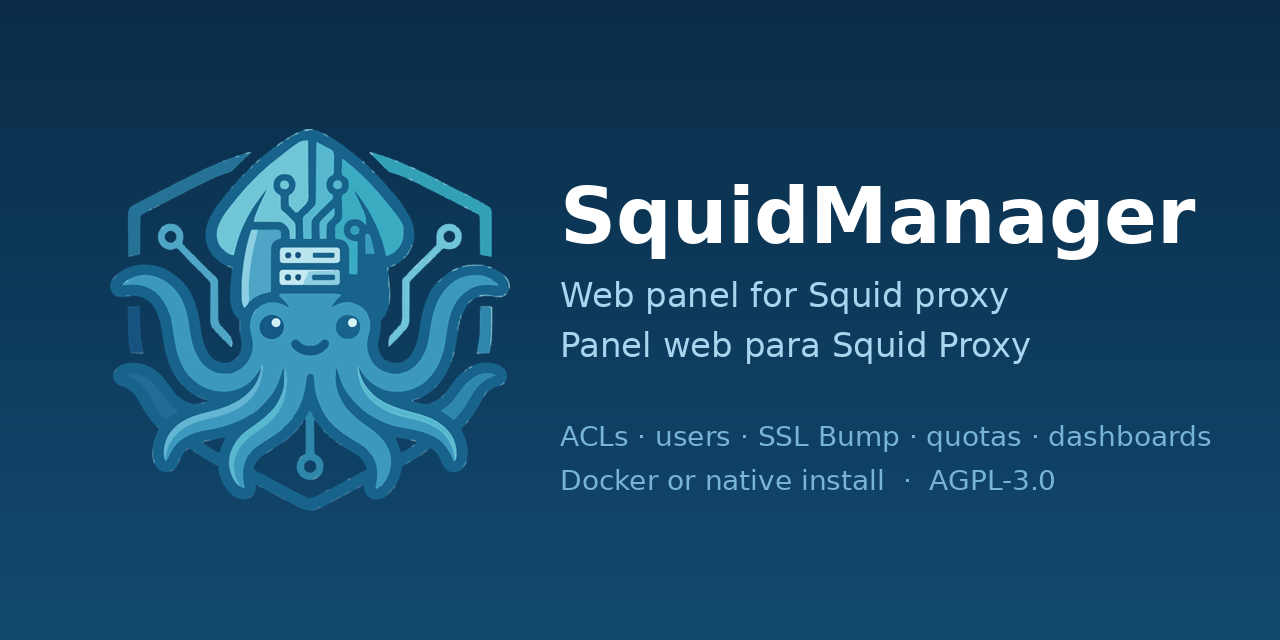
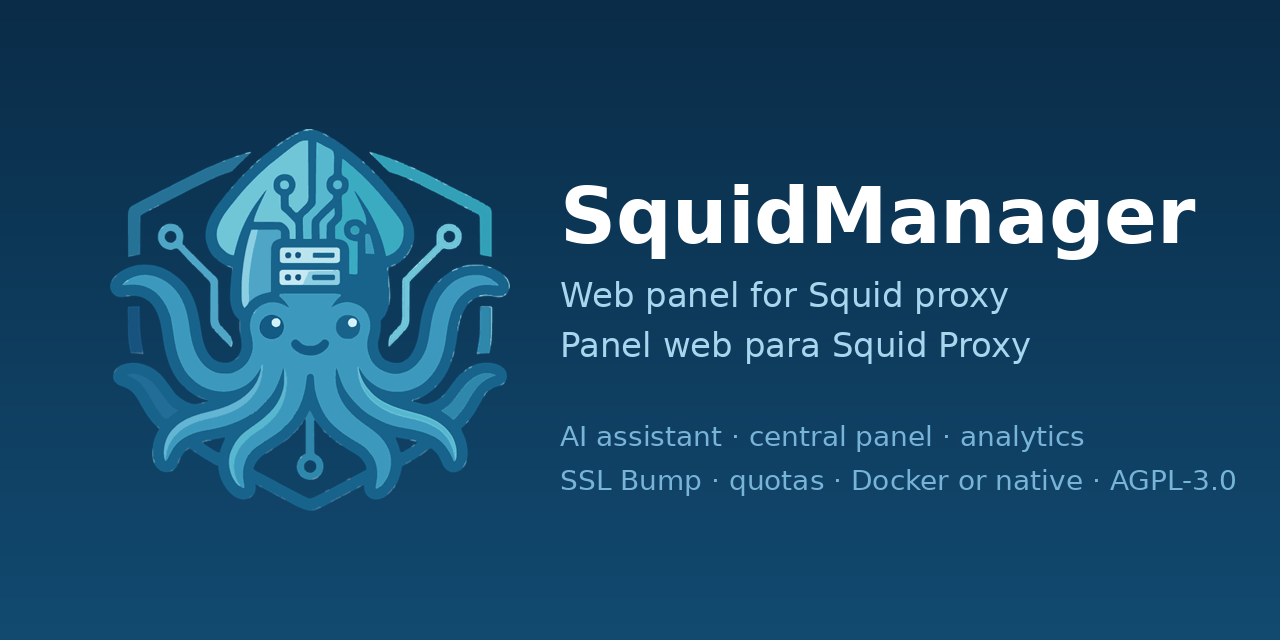
1.0.2: README y descripcion con lo que distingue al proyecto (asistente de IA, buscador de referencias, panel central...), articulo del Asistente actualizado, imagen social
Claude-Session: https://claude.ai/code/session_01Sc3B6BFZny3NjC6aReoNX7

Changed region(s): [[0.4375, 0.6562, 0.9688, 0.7812]]

diff --git a/frontend/src/content/docsAsistente.ts b/frontend/src/content/docsAsistente.ts
@@ -5,91 +5,88 @@ export const DOC_ASISTENTE: Record<'es' | 'en' | 'pt', string> = {
   es: `
 ## Para qué sirve
 
-Un buscador con lenguaje natural sobre la documentación del proyecto (\`README.md\` y \`docs/*.md\`, en español) -no un agente que actúa sobre el proxy real. Responde preguntas de uso citando de qué archivo y sección salió la respuesta. Apagado por defecto, igual que LDAP/Kerberos/Syslog.
+Un asistente al que se le pregunta en lenguaje natural cómo usar el panel («¿cómo bloqueo un sitio solo en horario de oficina?», «¿qué es un delay pool?») y responde **citando de qué archivo y sección de la documentación sale la respuesta**. Opcionalmente, en **modo agéntico**, también consulta la configuración real de este servidor para diagnosticar y propone ACLs que tú confirmas. Apagado por defecto, igual que LDAP/Kerberos/Syslog.
 
-## Dos API keys, de dos servicios distintos
+## Proveedor de IA: tú eliges
 
-1. Un **proveedor de chat** (Gemini, Ollama Cloud, NVIDIA NIM o Groq) para generar la respuesta.
-2. **Jina AI**, siempre, para la búsqueda semántica (embeddings) -sin importar qué proveedor de chat elijas. Las dos se pueden probar desde el panel antes de guardar, y ninguna se vuelve a mostrar una vez guardada.
+Se elige **uno** de una lista: Anthropic (Claude), OpenAI, Gemini, Groq, OpenRouter, DeepSeek, Mistral, NVIDIA NIM, Ollama Cloud, **Ollama en tu red** (los datos no salen de tu red) o **Personalizado** (cualquier servicio compatible con OpenAI: vLLM, LM Studio, LiteLLM, Azure…, con su URL y su clave). La clave es opcional en Ollama en tu red y en los servicios propios que no la piden. «Probar conexión» lista los modelos reales del proveedor elegido, y la clave no se vuelve a mostrar una vez guardada.
+
+## La búsqueda en la documentación es local
+
+No hace falta ningún segundo servicio ni clave: la búsqueda se hace dentro de tu propio servidor (texto completo de PostgreSQL), en el idioma del panel (español, inglés o portugués) y sin enviar la documentación a nadie. La documentación se **indexa sola** al arrancar y cada vez que cambia (por ejemplo, tras actualizar), e incluye la ayuda de cada pantalla del panel. El botón «Reindexar documentación» queda para forzarlo a mano.
 
 ## Qué ve, y qué no
 
-Solo lee \`README.md\` y \`docs/*.md\` en español -nunca la base de datos, el \`squid.conf\` real ni credenciales. El contenido de la documentación y cada pregunta que se hace viajan a esos dos servicios externos.
+Por defecto solo lee la documentación del proyecto -nunca la base de datos, el \`squid.conf\` real, usuarios ni credenciales. Lo que viaja al proveedor de IA es la pregunta, los fragmentos de documentación relevantes y, en modo agéntico, los datos que el asistente consulta (ver abajo).
 
-## Reindexar
+## Modo agéntico
 
-La documentación **no se reindexa sola**: hay que pulsar "Reindexar documentación" después de activar el asistente por primera vez, o de cualquier cambio en la documentación (incluida una actualización de SquidManager). Es una reindexación completa, no incremental -borra todo y vuelve a generarlo desde cero.
-
-## Modo agéntico (fase 1)
-
-Además de responder con la documentación, puede consultar ACLs, reglas, grupos y ajustes reales de este servidor para diagnosticar, y proponer cambios de configuración -nunca los aplica solo, siempre pide confirmación. No disponible con Ollama Cloud todavía -hace falta Gemini, Groq o NVIDIA NIM.
+Con el modo agéntico activado, el asistente puede consultar **ACLs, reglas de acceso, grupos, ajustes de Squid y el estado de «Aplicar cambios»** de este servidor para diagnosticar contra tu configuración real (por ejemplo, «¿por qué no puede entrar el grupo X a este sitio?»). Lo que consulta es estructural -nombres, tipos y cantidades-: nunca el contenido de las listas de archivo, ni usuarios, ni líneas de registro. Puede **proponer crear una ACL**, pero **nunca la crea ni la aplica solo**: aparece como propuesta y la creas tú con el mismo botón de siempre. No disponible con Ollama Cloud.
 
 ## Quién puede preguntar
 
-Cualquier administrador, **incluida una cuenta de solo lectura**: es una consulta sobre documentación pública, no una acción sobre el proxy.
+Cualquier administrador, **incluida una cuenta de solo lectura**: es una consulta, no una acción sobre el proxy.
 
 ## Requisito: pgvector
 
-La búsqueda semántica guarda los embeddings en una columna vectorial de Postgres. Se instala sola tanto en Docker como en instalación nativa, incluso al actualizar una instalación existente.
+La base de datos usa la extensión pgvector. Se instala sola tanto en Docker como en instalación nativa, incluso al actualizar una instalación existente.
 `.trim(),
   en: `
 ## What this is for
 
-A natural-language search engine over the project's documentation (\`README.md\` and \`docs/*.md\`, in Spanish) -not an agent that acts on the real proxy. It answers usage questions citing which file and section the answer came from. Off by default, same as LDAP/Kerberos/Syslog.
+An assistant you ask in natural language how to use the panel ("how do I block a site only during office hours?", "what is a delay pool?"), and it answers **citing which file and section of the documentation the answer comes from**. Optionally, in **agentic mode**, it also reads this server's real configuration to diagnose issues and proposes ACLs that you confirm. Off by default, like LDAP/Kerberos/Syslog.
 
-## Two API keys, from two different services
+## AI provider: your choice
 
-1. A **chat provider** (Gemini, Ollama Cloud, NVIDIA NIM or Groq) to generate the answer.
-2. **Jina AI**, always, for the semantic search (embeddings) -no matter which chat provider you pick. Both can be tested from the panel before saving, and neither is shown again once saved.
+You pick **one** from a list: Anthropic (Claude), OpenAI, Gemini, Groq, OpenRouter, DeepSeek, Mistral, NVIDIA NIM, Ollama Cloud, **Ollama on your network** (data never leaves your network) or **Custom** (any OpenAI-compatible service: vLLM, LM Studio, LiteLLM, Azure…, with its own URL and key). The key is optional for Ollama on your network and for self-hosted services that don't ask for one. "Test connection" lists the provider's real models, and the key is never shown again once saved.
+
+## The documentation search is local
+
+No second service or key is needed: the search runs inside your own server (PostgreSQL full-text search), in the panel's language (Spanish, English or Portuguese), and the documentation is not sent to anyone. The documentation **indexes itself** at startup and whenever it changes (for example, after an update), and it includes the help for every screen of the panel. The "Reindex documentation" button is there to force it by hand.
 
 ## What it can see, and what it can't
 
-It only reads \`README.md\` and \`docs/*.md\` in Spanish -never the database, the real \`squid.conf\`, or credentials. The documentation content and every question asked travel to those two external services.
+By default it only reads the project's documentation -never the database, the real \`squid.conf\`, users or credentials. What travels to the AI provider is the question, the relevant documentation fragments and, in agentic mode, the data the assistant queries (see below).
 
-## Reindexing
+## Agentic mode
 
-The documentation **doesn't reindex itself**: press "Reindex documentation" after enabling the assistant for the first time, or after any change to the documentation (including a SquidManager update). It's a full reindex, not incremental -it erases everything and rebuilds from scratch.
-
-## Agentic mode (phase 1)
-
-Besides answering from the documentation, it can check real ACLs, rules, groups and settings on this server to diagnose issues, and propose configuration changes -it never applies them on its own, it always asks for confirmation. Not available with Ollama Cloud yet -use Gemini, Groq or NVIDIA NIM.
+With agentic mode on, the assistant can read this server's **ACLs, access rules, groups, Squid settings and the "Apply changes" state** to diagnose against your real configuration (for example, "why can't group X reach this site?"). What it reads is structural -names, types and counts-: never the contents of file-based lists, users or log lines. It can **propose creating an ACL**, but **it never creates or applies anything on its own**: it shows up as a proposal and you create it with the usual button. Not available with Ollama Cloud.
 
 ## Who can ask
 
-Any administrator, **including a read-only account**: it's a query over public documentation, not an action on the proxy.
+Any administrator, **including a read-only account**: it's a query, not an action on the proxy.
 
 ## Requirement: pgvector
 
-Semantic search stores the embeddings in a Postgres vector column. It installs itself both in Docker and in a native install, even when updating an existing installation.
+The database uses the pgvector extension. It installs itself both in Docker and in a native install, even when updating an existing installation.
 `.trim(),
   pt: `
 ## Para que serve
 
-Um buscador com linguagem natural sobre a documentação do projeto (\`README.md\` e \`docs/*.md\`, em espanhol) -não um agente que age sobre o proxy real. Responde perguntas de uso citando de qual arquivo e seção veio a resposta. Desativado por padrão, assim como LDAP/Kerberos/Syslog.
+Um assistente ao qual você pergunta em linguagem natural como usar o painel («como bloqueio um site só no horário comercial?», «o que é um delay pool?») e que responde **citando de qual arquivo e seção da documentação sai a resposta**. Opcionalmente, no **modo agêntico**, também consulta a configuração real deste servidor para diagnosticar e propõe ACLs que você confirma. Desligado por padrão, como LDAP/Kerberos/Syslog.
 
-## Duas chaves de API, de dois serviços diferentes
+## Provedor de IA: você escolhe
 
-1. Um **provedor de chat** (Gemini, Ollama Cloud, NVIDIA NIM ou Groq) para gerar a resposta.
-2. **Jina AI**, sempre, para a busca semântica (embeddings) -não importa qual provedor de chat você escolher. As duas podem ser testadas no painel antes de salvar, e nenhuma é mostrada de novo depois de salva.
+Escolhe-se **um** de uma lista: Anthropic (Claude), OpenAI, Gemini, Groq, OpenRouter, DeepSeek, Mistral, NVIDIA NIM, Ollama Cloud, **Ollama na sua rede** (os dados não saem da sua rede) ou **Personalizado** (qualquer serviço compatível com OpenAI: vLLM, LM Studio, LiteLLM, Azure…, com sua URL e chave). A chave é opcional no Ollama na sua rede e nos serviços próprios que não a pedem. «Testar conexão» lista os modelos reais do provedor escolhido, e a chave não é mostrada novamente depois de salva.
 
-## O que ele vê, e o que não vê
+## A busca na documentação é local
 
-Só lê \`README.md\` e \`docs/*.md\` em espanhol -nunca o banco de dados, o \`squid.conf\` real nem credenciais. O conteúdo da documentação e cada pergunta feita viajam para esses dois serviços externos.
+Não é preciso nenhum segundo serviço nem chave: a busca é feita dentro do seu próprio servidor (texto completo do PostgreSQL), no idioma do painel (espanhol, inglês ou português) e sem enviar a documentação a ninguém. A documentação é **indexada sozinha** ao iniciar e sempre que muda (por exemplo, após atualizar), e inclui a ajuda de cada tela do painel. O botão «Reindexar documentação» fica para forçar à mão.
 
-## Reindexar
+## O que vê, e o que não vê
 
-A documentação **não se reindexa sozinha**: é preciso clicar em "Reindexar documentação" depois de ativar o assistente pela primeira vez, ou depois de qualquer mudança na documentação (inclusive uma atualização do SquidManager). É uma reindexação completa, não incremental -apaga tudo e reconstrói do zero.
+Por padrão só lê a documentação do projeto -nunca o banco de dados, o \`squid.conf\` real, usuários nem credenciais. O que viaja ao provedor de IA é a pergunta, os trechos de documentação relevantes e, no modo agêntico, os dados que o assistente consulta (veja abaixo).
 
-## Modo agêntico (fase 1)
+## Modo agêntico
 
-Além de responder com base na documentação, pode consultar ACLs, regras, grupos e ajustes reais deste servidor para diagnosticar, e propor mudanças de configuração -nunca as aplica sozinho, sempre pede confirmação. Ainda não disponível com o Ollama Cloud -use Gemini, Groq ou NVIDIA NIM.
+Com o modo agêntico ativado, o assistente pode consultar **ACLs, regras de acesso, grupos, ajustes do Squid e o estado de «Aplicar alterações»** deste servidor para diagnosticar com base na sua configuração real (por exemplo, «por que o grupo X não consegue acessar este site?»). O que consulta é estrutural -nomes, tipos e quantidades-: nunca o conteúdo das listas de arquivo, nem usuários, nem linhas de registro. Pode **propor criar uma ACL**, mas **nunca a cria nem a aplica sozinho**: aparece como proposta e você a cria com o mesmo botão de sempre. Não disponível com Ollama Cloud.
 
 ## Quem pode perguntar
 
-Qualquer administrador, **incluindo uma conta somente leitura**: é uma consulta sobre documentação pública, não uma ação sobre o proxy.
+Qualquer administrador, **inclusive uma conta somente leitura**: é uma consulta, não uma ação sobre o proxy.
 
 ## Requisito: pgvector
 
-A busca semântica guarda os embeddings numa coluna vetorial do Postgres. Ele se instala sozinho tanto no Docker quanto numa instalação nativa, mesmo ao atualizar uma instalação existente.
+O banco de dados usa a extensão pgvector. Ela se instala sozinha tanto no Docker quanto na instalação nativa, inclusive ao atualizar uma instalação existente.
 `.trim(),
 }

diff --git a/backend/app/services/ai_service.py b/backend/app/services/ai_service.py
@@ -12,8 +12,8 @@ Diseño deliberado, no accidental:
   Con el modo agéntico activado, sí consulta ACLs/reglas/grupos/ajustes
   reales (nunca credenciales, nunca usuarios, nunca contenido de logs) para
   poder diagnosticar contra el estado real -ver ai_tools.py-.
-- Los embeddings son siempre de Jina AI (`jina-embeddings-v3`, con
-  `dimensions=768` para calzar con la columna de la tabla): se investigó
+- (Histórico: los embeddings eran de Jina AI y hoy la búsqueda es local, por texto completo de PostgreSQL; Jina
+  solo se usa si una instalación antigua ya tenía una clave guardada.) Se investigó
   Gemini, NVIDIA NIM, Cohere y Voyage AI antes de elegir -Gemini tiene
   límites de cuota muy ajustados (se vieron 503 "high demand" en vivo,
   varias veces seguidas), NVIDIA NIM y Voyage AI no pueden emitir vectores

diff --git a/backend/app/config.py b/backend/app/config.py
@@ -83,7 +83,7 @@ class Settings(BaseSettings):
     # nada la sincronizaba con las otras dos versiones que declara el
     # proyecto (aquí y en frontend/package.json). Al subir la versión, las
     # tres deben moverse juntas y etiquetarse en git — ver docs/actualizacion.md.
-    APP_VERSION: str = "1.0.1"
+    APP_VERSION: str = "1.0.2"
     DEBUG: bool = False
 
     @property

diff --git a/README.md b/README.md
@@ -35,6 +35,23 @@
 
 ---
 
+## ✨ Qué lo distingue
+
+Además de lo esperable en un panel de Squid (ACLs, reglas, usuarios locales/LDAP/Kerberos, SSL Bump, delay pools):
+
+- **🤖 Asistente de IA** que responde en lenguaje natural cómo usar el panel, citando la documentación (la búsqueda es local, en tu servidor). En **modo agéntico** consulta tu configuración real (ACLs, reglas, grupos, ajustes) para diagnosticar y **propone ACLs que tú confirmas: nunca aplica nada solo**. Elige el proveedor: Claude, OpenAI, Gemini, Groq, OpenRouter, DeepSeek, Mistral, NVIDIA NIM, **Ollama en tu propia red** o cualquiera compatible con OpenAI.
+- **🔎 Buscador de referencias**: un cuadro que cruza ACLs, reglas, grupos (con sus miembros) y delay pools para responder «¿por qué está bloqueado este sitio?» o «¿puedo borrar esta ACL sin romper nada?».
+- **🌐 Panel central**: monitoriza varios SquidManager (y Squid «básicos», sin panel) en un árbol de varios niveles; un nodo caído no rompe la vista de los demás, y puedes enviarle tu configuración.
+- **📊 Análisis**: panorama, tendencias, actividad de red (equipos desde los que entran varias cuentas, cuotas agotadas), latencia y errores, con informes en PDF. Las consultas de 24 h, 7 y 30 días tardan milisegundos gracias a los agregados por hora.
+- **📥 Importar un Squid que ya tienes** (`squid.conf`, htpasswd/htdigest, listas de ACL) **conservando las contraseñas**, y backup/restauración con vista previa de lo que cambiaría y restauración «todo o nada».
+- **⏱ Cuotas y ancho de banda**: cuotas por usuario o grupo con periodos de calendario, y reglas de ancho de banda por usuario, grupo, ACL o tipo de tráfico.
+- **🔔 Avisos y reporte diario** por correo (HTML, en el idioma del panel) y Telegram.
+- **🧩 Módulos opcionales**: activa solo lo que necesitas.
+- **🔒 Seguridad revisada**: pasó una auditoría externa y sus hallazgos están corregidos (`docs/audits/`).
+- **🌍 Interfaz en español, inglés y portugués**; instalación con Docker (imágenes ya construidas o compilando), nativa sin Docker, y detrás de un proxy corporativo.
+
+---
+
 ## 📖 Qué es
 
 **SquidManager** es una plataforma de gestión de Squid Proxy que permite

diff --git a/README.pt.md b/README.pt.md
@@ -38,6 +38,23 @@
 
 ---
 
+## ✨ O que o diferencia
+
+Além do esperado em um painel de Squid (ACLs, regras, usuários locais/LDAP/Kerberos, SSL Bump, delay pools):
+
+- **🤖 Assistente de IA** que responde em linguagem natural como usar o painel, citando a documentação (a busca é local, no seu servidor). No **modo agêntico** consulta a sua configuração real (ACLs, regras, grupos, ajustes) para diagnosticar e **propõe ACLs que você confirma: nunca aplica nada sozinho**. Você escolhe o provedor: Claude, OpenAI, Gemini, Groq, OpenRouter, DeepSeek, Mistral, NVIDIA NIM, **Ollama na sua própria rede** ou qualquer um compatível com OpenAI.
+- **🔎 Busca de referências**: uma caixa que cruza ACLs, regras, grupos (com seus membros) e delay pools para responder «por que este site está bloqueado?» ou «posso apagar esta ACL sem quebrar nada?».
+- **🌐 Painel central**: monitora vários SquidManager (e Squids «básicos», sem painel) numa árvore de vários níveis; um nó fora do ar não quebra a visão dos demais, e você pode enviar a sua configuração a ele.
+- **📊 Análise**: panorama, tendências, atividade de rede (equipamentos usados por várias contas, cotas esgotadas), latência e erros, com relatórios em PDF. As consultas de 24 h, 7 e 30 dias levam milissegundos graças aos agregados por hora.
+- **📥 Importar o Squid que você já tem** (`squid.conf`, htpasswd/htdigest, listas de ACL) **mantendo as senhas**, e backup/restauração com pré-visualização do que mudaria e restauração «tudo ou nada».
+- **⏱ Cotas e largura de banda**: cotas por usuário ou grupo com períodos de calendário, e regras de largura de banda por usuário, grupo, ACL ou tipo de tráfego.
+- **🔔 Avisos e relatório diário** por e-mail (HTML, no idioma do painel) e Telegram.
+- **🧩 Módulos opcionais**: ative só o que precisa.
+- **🔒 Segurança revisada**: passou por uma auditoria externa e os achados estão corrigidos (`docs/audits/`).
+- **🌍 Interface em espanhol, inglês e português**; instalação com Docker (imagens prontas ou compilando), nativa sem Docker, e atrás de um proxy corporativo.
+
+---
+
 ## 📋 Índice
 
 - [Descrição](#-descrição)

diff --git a/README.en.md b/README.en.md
@@ -38,6 +38,23 @@
 
 ---
 
+## ✨ What sets it apart
+
+Besides what you'd expect from a Squid panel (ACLs, rules, local/LDAP/Kerberos users, SSL Bump, delay pools):
+
+- **🤖 AI assistant** that answers in natural language how to use the panel, citing the documentation (the search is local, on your server). In **agentic mode** it reads your real configuration (ACLs, rules, groups, settings) to diagnose issues and **proposes ACLs that you confirm: it never applies anything on its own**. You choose the provider: Claude, OpenAI, Gemini, Groq, OpenRouter, DeepSeek, Mistral, NVIDIA NIM, **Ollama on your own network**, or anything OpenAI-compatible.
+- **🔎 References search**: one box that cross-references ACLs, rules, groups (with their members) and delay pools to answer "why is this site blocked?" or "can I delete this ACL without breaking anything?".
+- **🌐 Central panel**: monitors several SquidManager instances (and "basic" Squids with no panel) in a multi-level tree; a node that is down doesn't break the others' view, and you can push your configuration to it.
+- **📊 Analytics**: overview, trends, network activity (machines used by several accounts, exhausted quotas), latency and errors, with PDF reports. 24-hour, 7-day and 30-day queries take milliseconds thanks to hourly aggregates.
+- **📥 Import the Squid you already run** (`squid.conf`, htpasswd/htdigest, ACL list files) **keeping the passwords**, plus backup/restore with a preview of what would change and all-or-nothing restores.
+- **⏱ Quotas and bandwidth**: per-user or per-group quotas with calendar periods, and bandwidth rules per user, group, ACL or traffic type.
+- **🔔 Alerts and a daily report** by email (HTML, in the panel's language) and Telegram.
+- **🧩 Optional modules**: turn on only what you need.
+- **🔒 Reviewed security**: it went through an external audit and its findings are fixed (`docs/audits/`).
+- **🌍 UI in Spanish, English and Portuguese**; install with Docker (pre-built images or compiling), natively without Docker, and behind a corporate proxy.
+
+---
+
 ## 📋 Table of contents
 
 - [Overview](#-overview)

diff --git a/CHANGELOG.md b/CHANGELOG.md
@@ -5,7 +5,17 @@ El formato está basado en [Keep a Changelog](https://keepachangelog.com/).
 
 ---
 
-## [1.0.1] - Sin publicar (rama pruebas)
+## [1.0.2] - 2026-10-01
+
+### Mejorado
+
+- **Presentación del proyecto**: los README (es/en/pt) y la descripción del repositorio destacan lo que distingue a
+  SquidManager (asistente de IA con modo agéntico, buscador de referencias, panel central, análisis, importación de un
+  Squid existente conservando contraseñas, backup con vista previa…). El artículo de ayuda del **Asistente** estaba
+  desactualizado (hablaba de dos claves y de reindexar a mano): ahora describe los proveedores a elegir, la búsqueda local
+  y la indexación automática.
+
+## [1.0.1] - 2026-10-01
 
 ### Corregido
 
